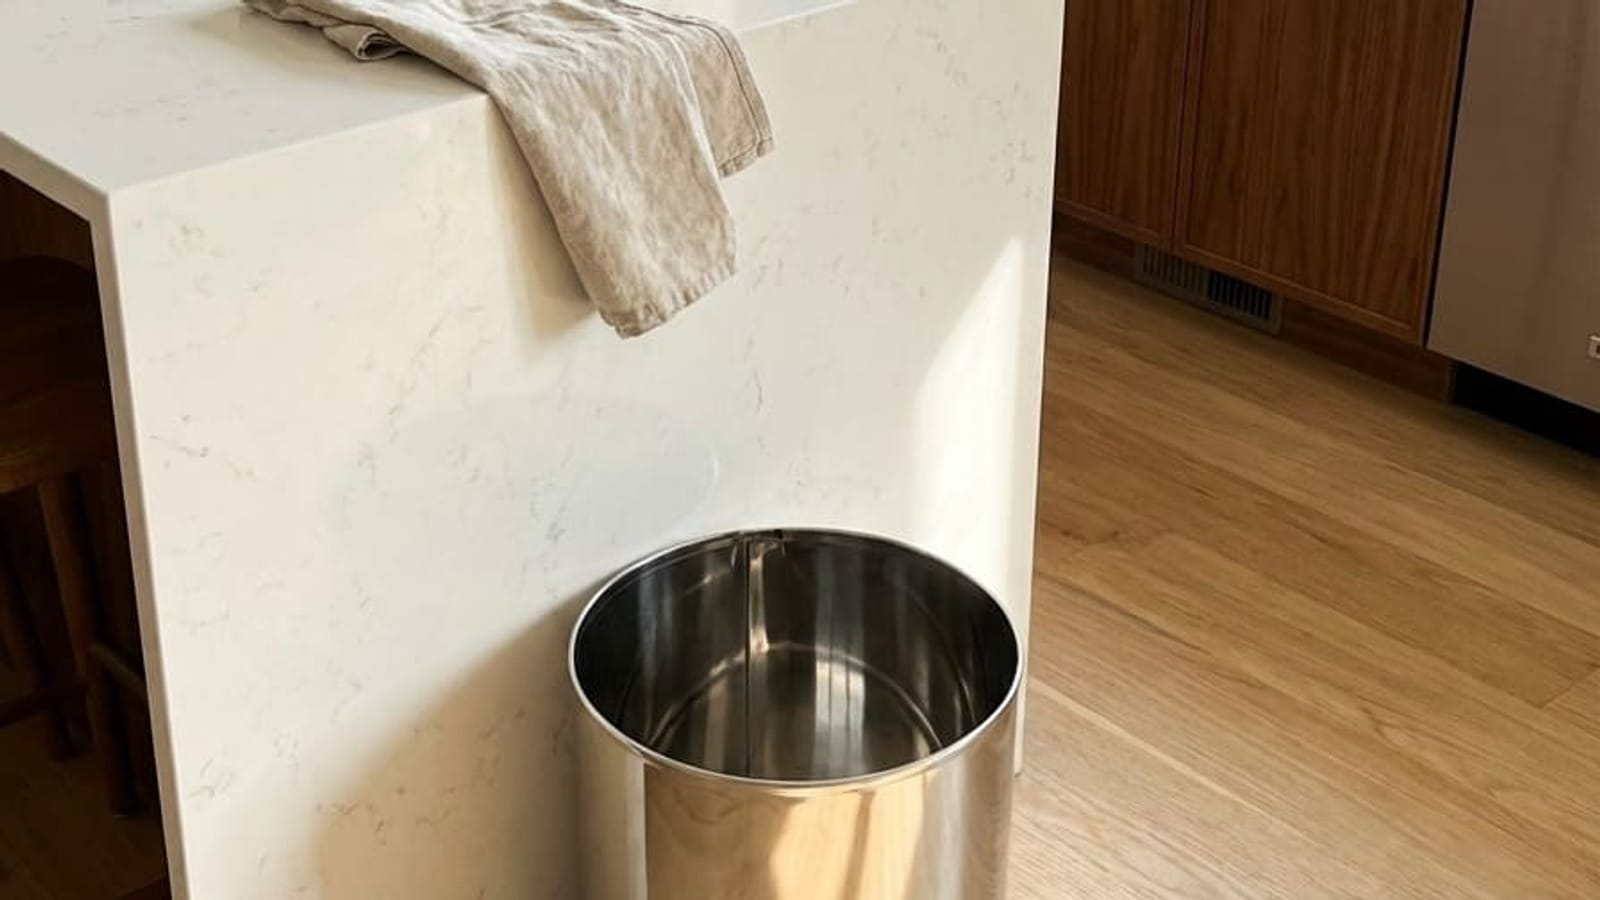
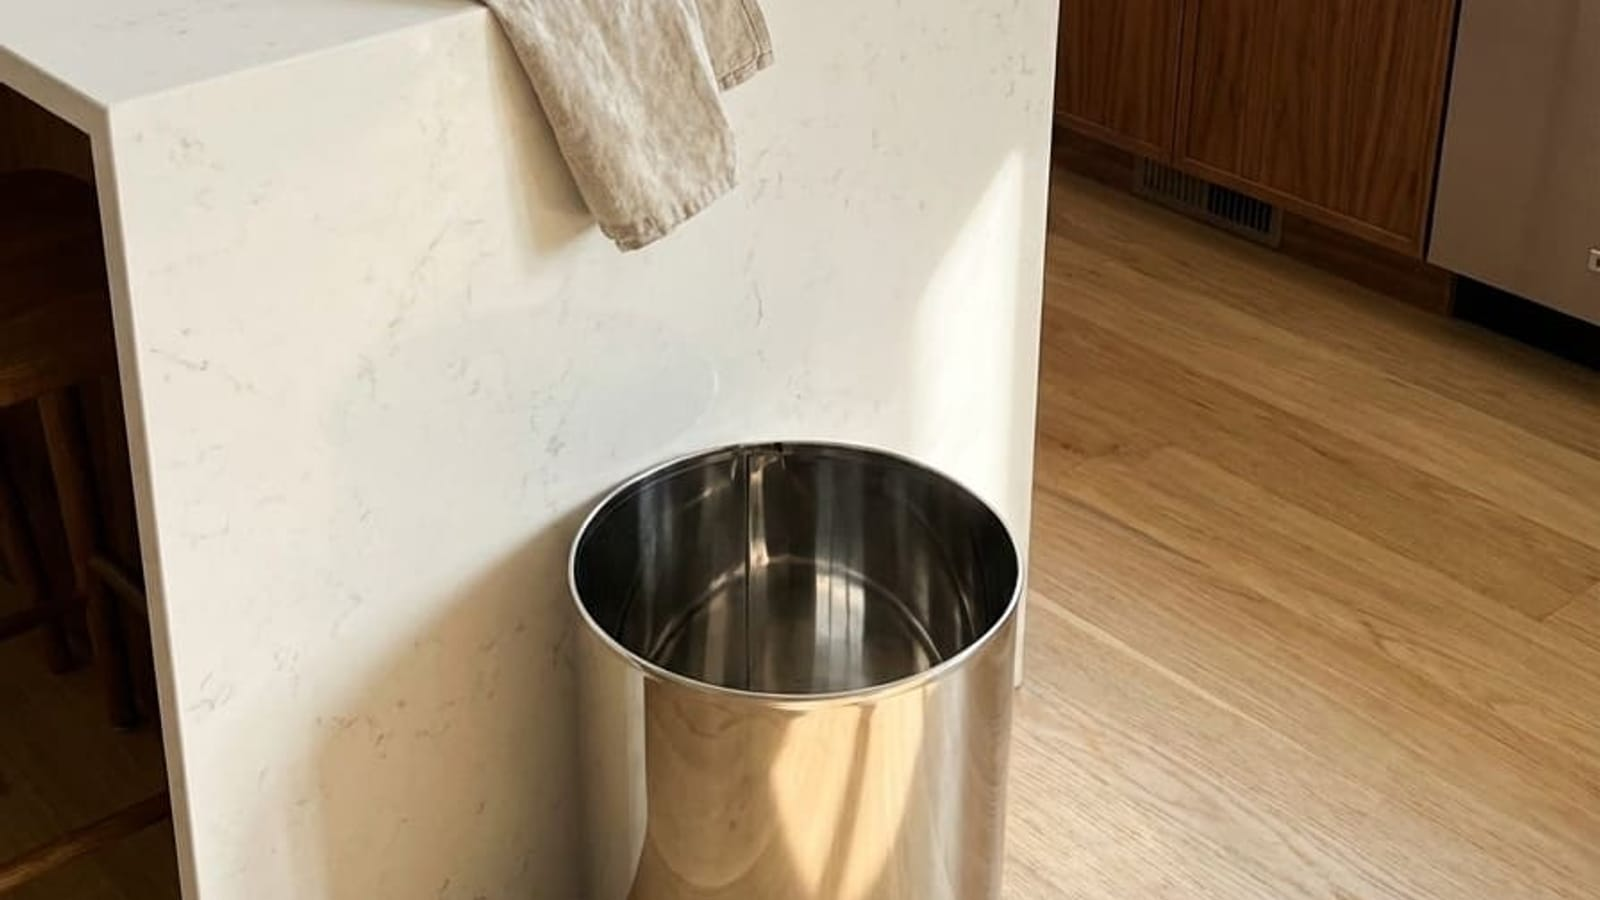
Frames do hero: produto sempre evidente em qualquer viewport
Faixas dos plates com margem de seguranca, object-position ancorado
no produto por frame e Ken Burns contido (1.06, deriva 1.2%) - o corte
do cover acontece longe do produto mesmo em viewports ultra-largos
(ex.: 1366x645 com barras do navegador).

diff --git a/index.html b/index.html
@@ -227,9 +227,13 @@ section{padding-block:60px;position:relative}
 @media(min-width:1024px){.hero-frames{display:block}}
 .frame{position:absolute;inset:0;opacity:0;visibility:hidden;overflow:hidden}
 .frame-bg{
-  position:absolute;left:0;top:-3%;width:100%;height:106%;
+  position:absolute;left:0;top:-1.5%;width:100%;height:103%;
   object-fit:cover;will-change:transform;
 }
+/* âncora do enquadramento no produto: o corte do cover acontece longe dele */
+.frame[data-f="1"] .frame-bg{object-position:50% 72%}
+.frame[data-f="2"] .frame-bg{object-position:50% 62%}
+.frame[data-f="3"] .frame-bg{object-position:50% 74%}
 .frame-scrim{
   position:absolute;inset:0;
   background:linear-gradient(90deg,rgba(11,10,14,.84) 0%,rgba(11,10,14,.42) 44%,rgba(11,10,14,.08) 72%,rgba(11,10,14,.35) 100%);
@@ -1438,7 +1442,7 @@ footer{border-top:1px solid var(--border);padding:72px 0 40px;background:var(--b
           .to(f, { autoAlpha: 1, ease: "none", duration: 0.4 }, t)
           // fromTo (e não from): com invalidateOnRefresh, from() re-captura o "fim"
           // já estampado e congela. Extremos explícitos são à prova de refresh.
-          .fromTo(f + " .frame-bg", { scale: 1.14, yPercent: 2.5 }, { scale: 1, yPercent: -2.5, ease: "none", duration: 1.55 }, t)
+          .fromTo(f + " .frame-bg", { scale: 1.06, yPercent: 1.2 }, { scale: 1, yPercent: -1.2, ease: "none", duration: 1.55 }, t)
           .fromTo(f + " .fc-item", { y: 46, autoAlpha: 0 }, { y: 0, autoAlpha: 1, stagger: 0.085, ease: "none", duration: 0.4 }, t + 0.1)
           .to(".fdot", { opacity: 0.35, ease: "none", duration: 0.18 }, t)
           .to('.fdot[data-d="' + n + '"]', { opacity: 1, ease: "none", duration: 0.18 }, t + 0.02);
